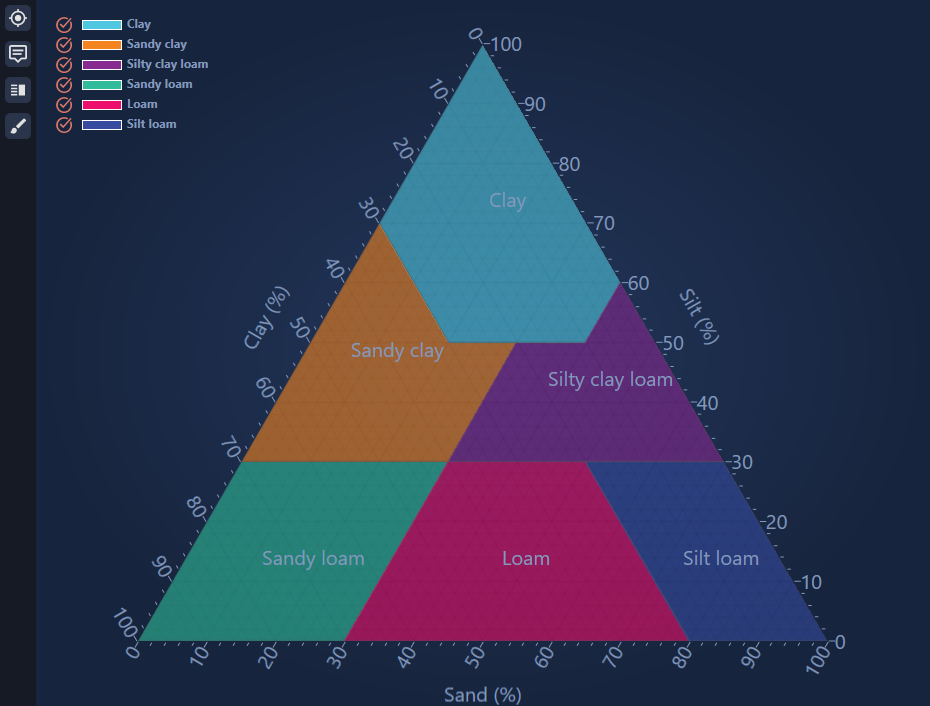
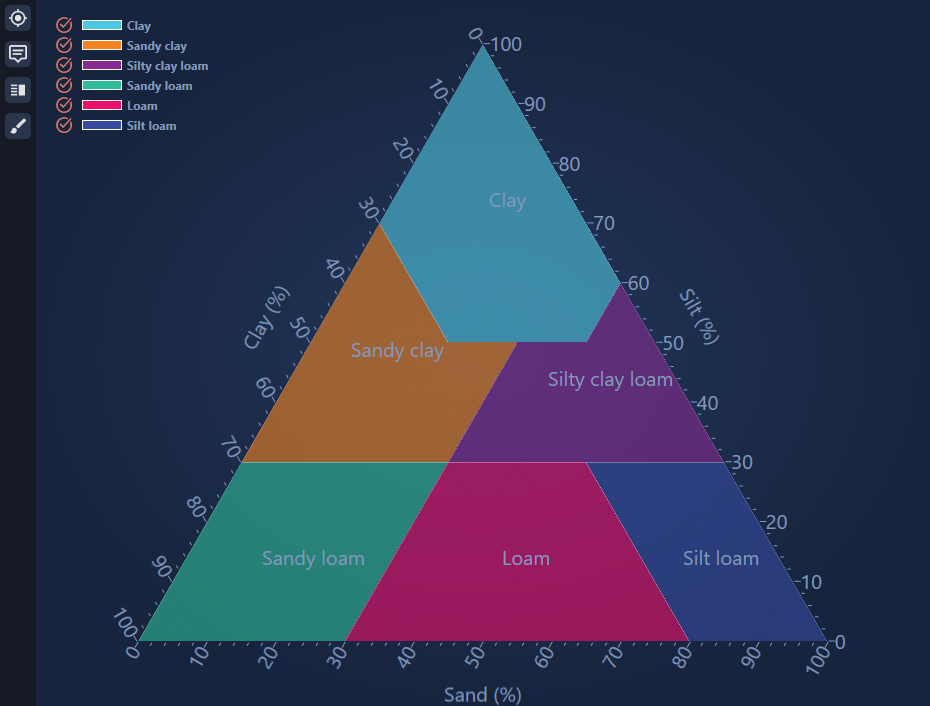
SciChart version 9.1.1.29235

Changed region(s): [[0.1247, 0.0312, 0.2183, 0.187], [0.4677, 0.6544, 0.4989, 0.6856]]

diff --git a/Examples/SciChart.Examples/Examples/CreateGaugeCharts/PieSegmentViewModel.cs b/Examples/SciChart.Examples/Examples/CreateGaugeCharts/PieSegmentViewModel.cs
@@ -17,101 +17,102 @@ using System.Windows.Media;
 using SciChart.Charting.Visuals;
 using SciChart.Examples.ExternalDependencies.Common;
 
-namespace SciChart.Examples.Examples.CreateGaugeCharts;
-
-public class BrushViewModel
+namespace SciChart.Examples.Examples.CreateGaugeCharts
 {
-    public Brush Brush { get; set; }
-    public string BrushName { get; set; }
-}
-
-public class PieSegmentViewModel : BaseViewModel, IPieSegmentViewModel
-{
-    private double _value;
-    private double _percentage;
-    private bool _isSelected;
-    private string _name;
-    private Brush _fill;
-    private Brush _stroke;
-    private double _strokeThickness;
-
-    public double Value
+    public class BrushViewModel
     {
-        get => _value;
-        set
-        {
-            if (_value.Equals(value)) return;
-
-            _value = value;
-            OnPropertyChanged(nameof(Value));
-        }
+        public Brush Brush { get; set; }
+        public string BrushName { get; set; }
     }
 
-    public double Percentage
+    public class PieSegmentViewModel : BaseViewModel, IPieSegmentViewModel
     {
-        get => _percentage;
-        set
-        {
-            if (_percentage.Equals(value)) return;
+        private double _value;
+        private double _percentage;
+        private bool _isSelected;
+        private string _name;
+        private Brush _fill;
+        private Brush _stroke;
+        private double _strokeThickness;
 
-            _percentage = value;
-            OnPropertyChanged(nameof(Percentage));
+        public double Value
+        {
+            get => _value;
+            set
+            {
+                if (_value.Equals(value)) return;
+
+                _value = value;
+                OnPropertyChanged(nameof(Value));
+            }
         }
-    }
-    public bool IsSelected
-    {
-        get => _isSelected;
-        set
-        {
-            if (value.Equals(_isSelected)) return;
 
-            _isSelected = value;
-            OnPropertyChanged(nameof(IsSelected));
+        public double Percentage
+        {
+            get => _percentage;
+            set
+            {
+                if (_percentage.Equals(value)) return;
+
+                _percentage = value;
+                OnPropertyChanged(nameof(Percentage));
+            }
         }
-    }
-    public string Name
-    {
-        get => _name;
-        set
+        public bool IsSelected
         {
-            if (ReferenceEquals(_name, value)) return;
+            get => _isSelected;
+            set
+            {
+                if (value.Equals(_isSelected)) return;
 
-            _name = value;
-            OnPropertyChanged(nameof(Name));
+                _isSelected = value;
+                OnPropertyChanged(nameof(IsSelected));
+            }
         }
-    }
-    public Brush Fill
-    {
-        get => _fill;
-        set
+        public string Name
         {
-            if (ReferenceEquals(_fill, value)) return;
+            get => _name;
+            set
+            {
+                if (ReferenceEquals(_name, value)) return;
 
-            _fill = value;
-            OnPropertyChanged(nameof(Fill));
+                _name = value;
+                OnPropertyChanged(nameof(Name));
+            }
         }
-    }
-    public Brush Stroke
-    {
-        get => _stroke;
-        set
+        public Brush Fill
         {
-            if (ReferenceEquals(_stroke, value)) return;
+            get => _fill;
+            set
+            {
+                if (ReferenceEquals(_fill, value)) return;
 
-            _stroke = value;
-            OnPropertyChanged(nameof(Stroke));
+                _fill = value;
+                OnPropertyChanged(nameof(Fill));
+            }
         }
-    }
-
-    public double StrokeThickness
-    {
-        get => _strokeThickness;
-        set
+        public Brush Stroke
         {
-            if (value.Equals(_strokeThickness)) return;
+            get => _stroke;
+            set
+            {
+                if (ReferenceEquals(_stroke, value)) return;
 
-            _strokeThickness = value;
-            OnPropertyChanged(nameof(StrokeThickness));
+                _stroke = value;
+                OnPropertyChanged(nameof(Stroke));
+            }
+        }
+
+        public double StrokeThickness
+        {
+            get => _strokeThickness;
+            set
+            {
+                if (value.Equals(_strokeThickness)) return;
+
+                _strokeThickness = value;
+                OnPropertyChanged(nameof(StrokeThickness));
+            }
         }
     }
 }

diff --git a/Examples/SciChart.Examples/Examples/SeeFeaturedApplication/Antenna3DRadiationPattern/Antenna3DRadiationPatternView.xaml.cs b/Examples/SciChart.Examples/Examples/SeeFeaturedApplication/Antenna3DRadiationPattern/Antenna3DRadiationPatternView.xaml.cs
@@ -50,6 +50,7 @@ namespace SciChart.Examples.Examples.SeeFeaturedApplication.Antenna3DRadiationPa
         private const double InitialThetaDeg = 22.0;
 
         private Viewport3DOrientation _defaultOrientation;
+        private bool _defaultEnableDropShadows;
 
         private double[,] _gain;
         private double _ringRadius;
@@ -71,11 +72,15 @@ namespace SciChart.Examples.Examples.SeeFeaturedApplication.Antenna3DRadiationPa
         private void OnUnloaded(object sender, RoutedEventArgs e)
         {
             Viewport3D.SetViewportOrientation(_defaultOrientation);
+
+            // EnableDropShadows is application-wide; restore it so other examples keep their shadows
+            EffectManager.EnableDropShadows = _defaultEnableDropShadows;
         }
 
         private void OnLoaded(object _, RoutedEventArgs __)
         {
-            // Disable shadow effects for tooltips
+            // Disable shadow effects for tooltips, saving the current value to restore on Unloaded
+            _defaultEnableDropShadows = EffectManager.EnableDropShadows;
             EffectManager.EnableDropShadows = false;
 
             // Save the used Viewport orientation before the Example is initialized
